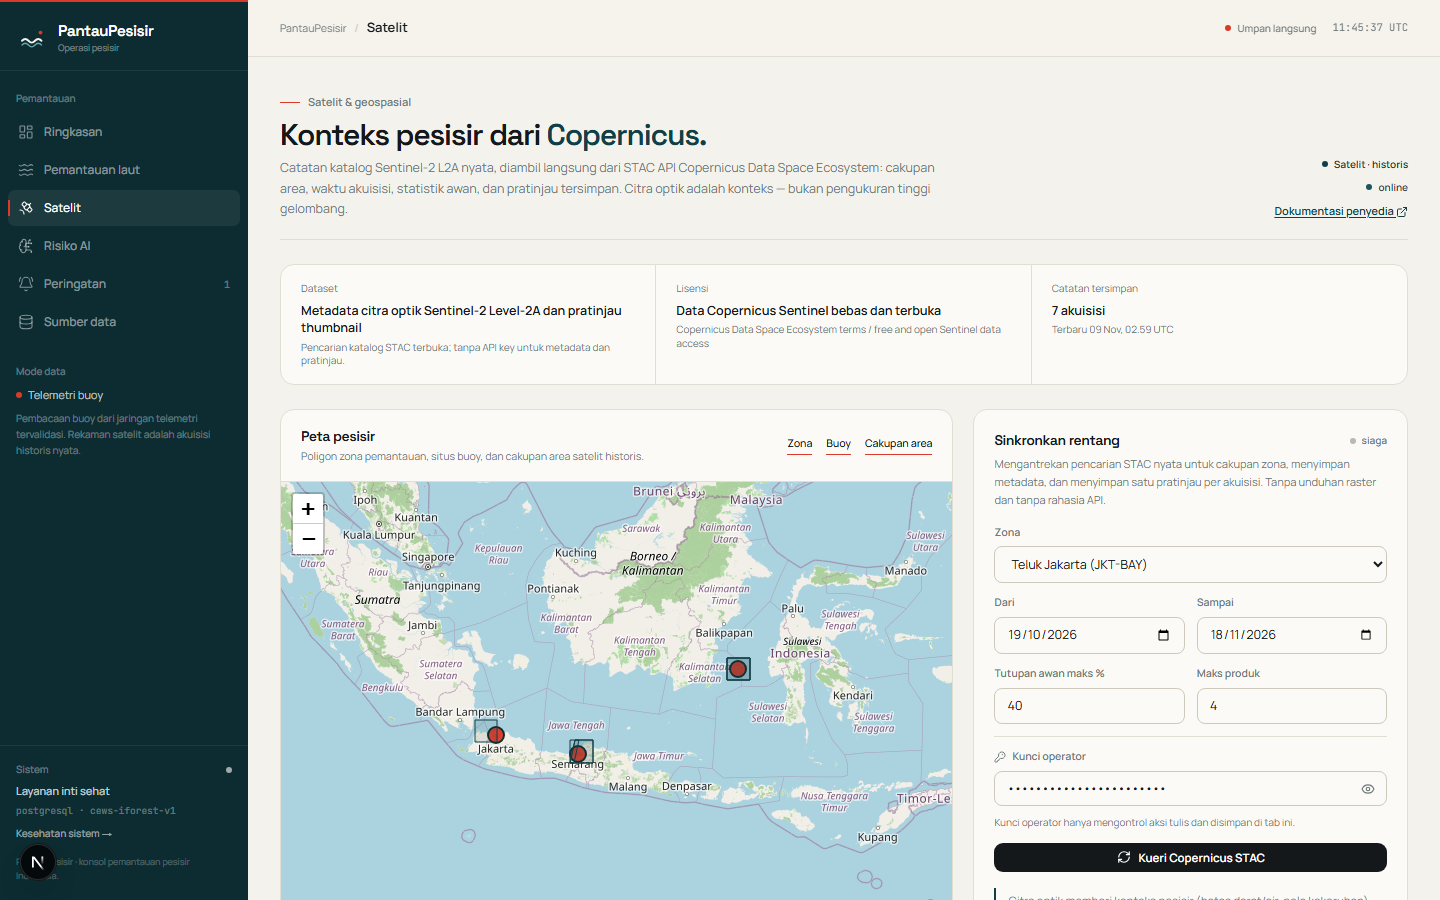
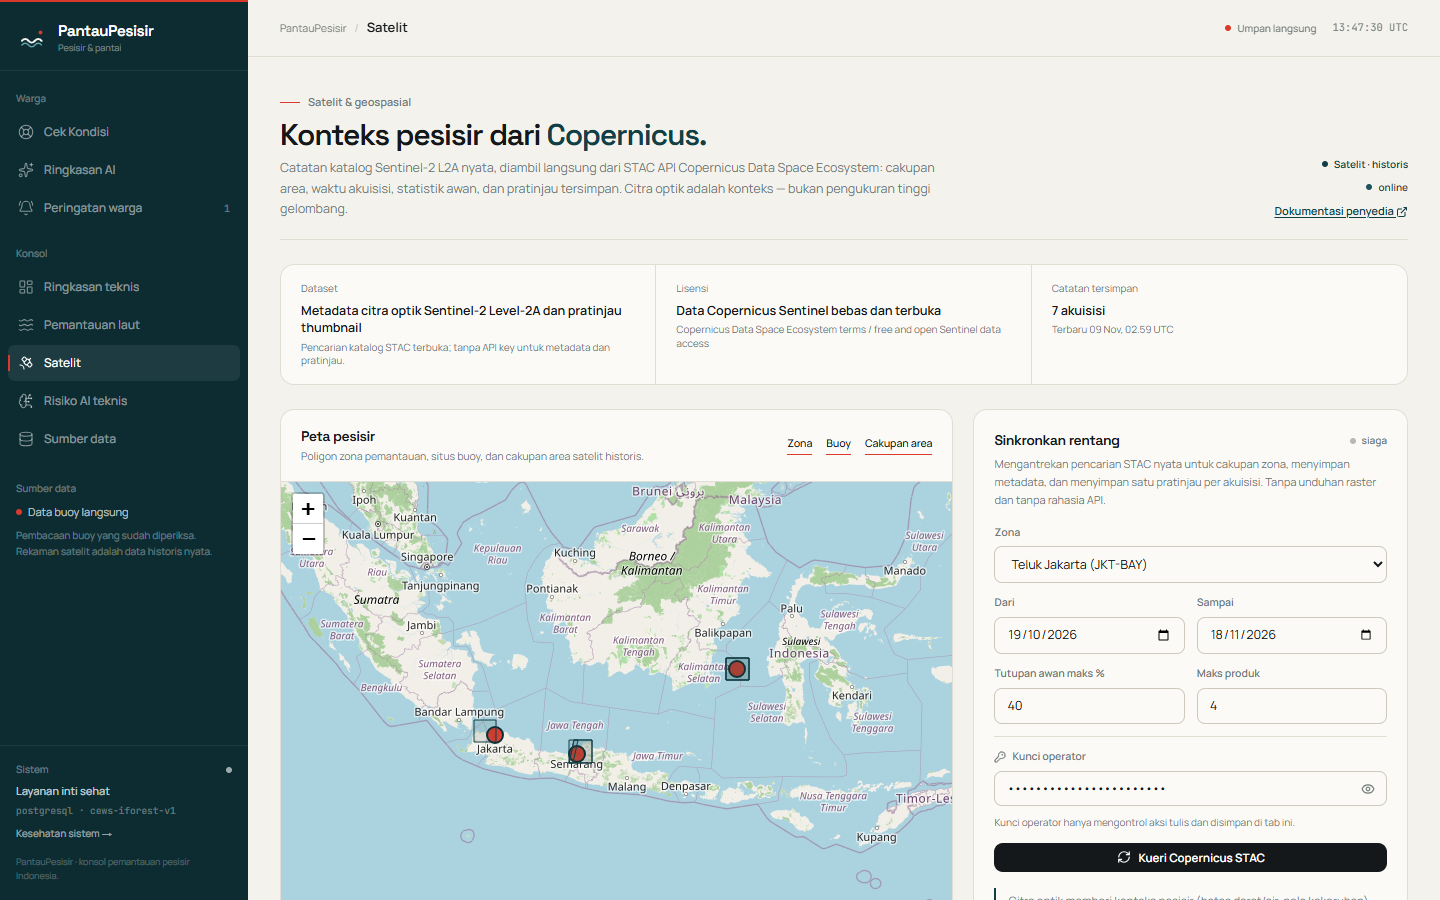
Make satellite sync reliable on serverless
Claim queued jobs atomically and run them on the first status poll, bound thumbnail downloads with a time budget, raise client timeouts for cold starts, and replace raw timeout errors with actionable copy.

diff --git a/frontend/app/satellite/page.tsx b/frontend/app/satellite/page.tsx
@@ -48,11 +48,11 @@ export default function SatellitePage() {
   const [expanded, setExpanded] = useState<string | null>(null);
   const [layers, setLayers] = useState({ zones: true, buoys: true, footprints: true });
 
-  const provider = useApi<SatelliteProviderInfo>("/satellite/provider", 60000);
-  const zones = useApi<Zone[]>("/coastal/zones");
-  const latest = useApi<LatestResponse>("/buoy/latest", 30000);
-  const datasets = useApi<SatelliteDataset[]>("/satellite/datasets?limit=60", 30000);
-  const job = useApi<SatelliteJob>(jobId ? `/satellite/jobs/${jobId}` : null, 2000);
+  const provider = useApi<SatelliteProviderInfo>("/satellite/provider", 60000, 30000);
+  const zones = useApi<Zone[]>("/coastal/zones", undefined, 30000);
+  const latest = useApi<LatestResponse>("/buoy/latest", 30000, 30000);
+  const datasets = useApi<SatelliteDataset[]>("/satellite/datasets?limit=60", 30000, 30000);
+  const job = useApi<SatelliteJob>(jobId ? `/satellite/jobs/${jobId}` : null, 2000, 30000);
   const handledJob = useRef<string | null>(null);
 
   useEffect(() => {
@@ -92,11 +92,18 @@ export default function SatellitePage() {
           max_products: maxProducts,
         },
         apiKey,
+        60000,
       );
       setJobId(response.job.id);
       setNotice(response.acceptance_note);
     } catch (err) {
-      setError(err instanceof ApiError ? err.detail : err instanceof Error ? err.message : "Sinkronisasi gagal");
+      const raw =
+        err instanceof ApiError ? err.detail : err instanceof Error ? err.message : "Sinkronisasi gagal";
+      setError(
+        /timed out|aborted|timeout/i.test(raw)
+          ? "Server belum merespons. Coba lagi dalam beberapa detik."
+          : raw,
+      );
     } finally {
       setBusy(false);
     }

diff --git a/frontend/lib/hooks.ts b/frontend/lib/hooks.ts
@@ -12,7 +12,7 @@ export interface ApiState<T> {
   setData: (value: T | null) => void;
 }
 
-export function useApi<T>(path: string | null, pollMs?: number): ApiState<T> {
+export function useApi<T>(path: string | null, pollMs?: number, timeoutMs?: number): ApiState<T> {
   const [data, setData] = useState<T | null>(null);
   const [error, setError] = useState<string | null>(null);
   const [loading, setLoading] = useState<boolean>(Boolean(path));
@@ -35,20 +35,24 @@ export function useApi<T>(path: string | null, pollMs?: number): ApiState<T> {
     const run = async (showSpinner: boolean) => {
       if (showSpinner) setLoading(true);
       try {
-        const result = await apiGet<T>(path);
+        const result = await apiGet<T>(path, timeoutMs);
         if (!cancelled && mounted.current) {
           setData(result);
           setError(null);
         }
       } catch (err) {
         if (!cancelled && mounted.current) {
-          const message =
+          const raw =
             err instanceof ApiError
               ? err.detail
               : err instanceof Error
                 ? err.message
                 : "Tidak dapat menjangkau API PantauPesisir";
-          setError(message);
+          setError(
+            /timed out|aborted|timeout/i.test(raw)
+              ? "Server belum merespons. Coba lagi dalam beberapa detik."
+              : raw,
+          );
         }
       } finally {
         if (!cancelled && mounted.current) setLoading(false);

diff --git a/frontend/components/ui.tsx b/frontend/components/ui.tsx
@@ -172,7 +172,7 @@ export function ErrorState({ message, onRetry }: { message: string; onRetry?: ()
       </div>
       <p className="mt-2 text-[12px] leading-relaxed text-muted">{message}</p>
       <p className="mt-1 text-[10.5px] text-muted">
-        Pastikan backend FastAPI berjalan dan `NEXT_PUBLIC_API_BASE_URL` mengarah ke sana.
+        Koneksi ke server mungkin sedang lambat. Coba lagi dalam beberapa detik.
       </p>
       {onRetry ? (
         <button type="button" onClick={onRetry} className="btn btn-ghost btn-sm mt-3">

diff --git a/backend/app/services/satellite/service.py b/backend/app/services/satellite/service.py
@@ -4,11 +4,12 @@ from __future__ import annotations
 
 import logging
 import re
+import time
 import uuid
 from datetime import date, datetime, timedelta, timezone
 from pathlib import Path
 
-from sqlalchemy import func, select
+from sqlalchemy import func, select, update
 from sqlalchemy.orm import Session
 
 from app.core.config import settings
@@ -91,8 +92,18 @@ def create_job(db: Session, payload: SatelliteSyncIn, zone: CoastalZone) -> Sate
 
 
 def run_job(job_id: uuid.UUID) -> None:
-    """Background worker. Always leaves a persisted terminal status."""
+    """Run a queued job exactly once, even across serverless instances."""
     with SessionLocal() as db:
+        now = datetime.now(timezone.utc)
+        claimed = db.execute(
+            update(SatelliteJob)
+            .where(SatelliteJob.id == job_id, SatelliteJob.status == "queued")
+            .values(status="running", started_at=now)
+        ).rowcount
+        db.commit()
+        if not claimed:
+            return
+
         job = db.get(SatelliteJob, job_id)
         if job is None:
             logger.error("satellite job %s vanished", job_id)
@@ -104,10 +115,6 @@ def run_job(job_id: uuid.UUID) -> None:
             job.completed_at = datetime.now(timezone.utc)
             db.commit()
             return
-
-        job.status = "running"
-        job.started_at = datetime.now(timezone.utc)
-        db.commit()
 
         query = job.query_parameters or {}
         try:
@@ -123,12 +130,16 @@ def run_job(job_id: uuid.UUID) -> None:
             job.datasets_found = len(products)
             warnings: list[str] = []
             stored = 0
+            deadline = time.monotonic() + settings.satellite_sync_budget_seconds
             for product in products:
-                try:
-                    thumbnail = _download_thumbnail(provider, product)
-                except SatelliteProviderError as exc:
-                    thumbnail = None
-                    warnings.append(f"{product.product_id}: thumbnail unavailable ({exc.kind})")
+                thumbnail = None
+                if time.monotonic() < deadline:
+                    try:
+                        thumbnail = _download_thumbnail(provider, product)
+                    except SatelliteProviderError as exc:
+                        warnings.append(f"{product.product_id}: thumbnail unavailable ({exc.kind})")
+                else:
+                    warnings.append(f"{product.product_id}: thumbnail ditunda (batas waktu)")
                 created = upsert_product(db, zone, product, thumbnail)
                 if created:
                     stored += 1

diff --git a/backend/app/api/v1/routers/satellite.py b/backend/app/api/v1/routers/satellite.py
@@ -70,6 +70,14 @@ def satellite_job(job_id: uuid.UUID, db: Session = Depends(get_db)) -> Satellite
     job = db.get(SatelliteJob, job_id)
     if job is None:
         raise HTTPException(status_code=status.HTTP_404_NOT_FOUND, detail="Satellite job not found")
+    if job.status == "queued":
+        # Serverless hosts may drop background tasks after the response, so the
+        # first status poll claims and runs the job synchronously.
+        run_job(job.id)
+        db.expire_all()
+        job = db.get(SatelliteJob, job_id)
+        if job is None:
+            raise HTTPException(status_code=status.HTTP_404_NOT_FOUND, detail="Satellite job not found")
     return SatelliteJobOut.model_validate(job)
 
 

diff --git a/backend/app/core/config.py b/backend/app/core/config.py
@@ -54,6 +54,7 @@ class Settings(BaseSettings):
     satellite_max_cloud_cover_percent: float = 40.0
     satellite_timeout_seconds: float = 25.0
     satellite_max_products_per_sync: int = 4
+    satellite_sync_budget_seconds: int = 30
     satellite_cache_dir: str = str(REPO_ROOT / "data" / "satellite")
     satellite_client_id: str = ""
     satellite_client_secret: str = ""
